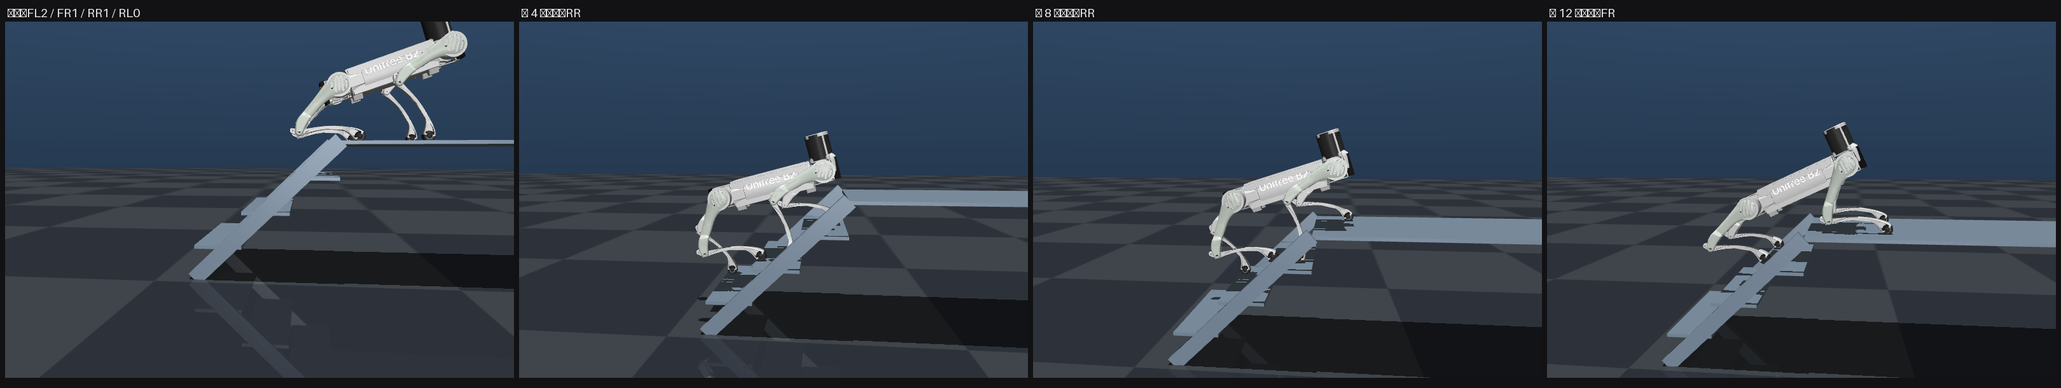
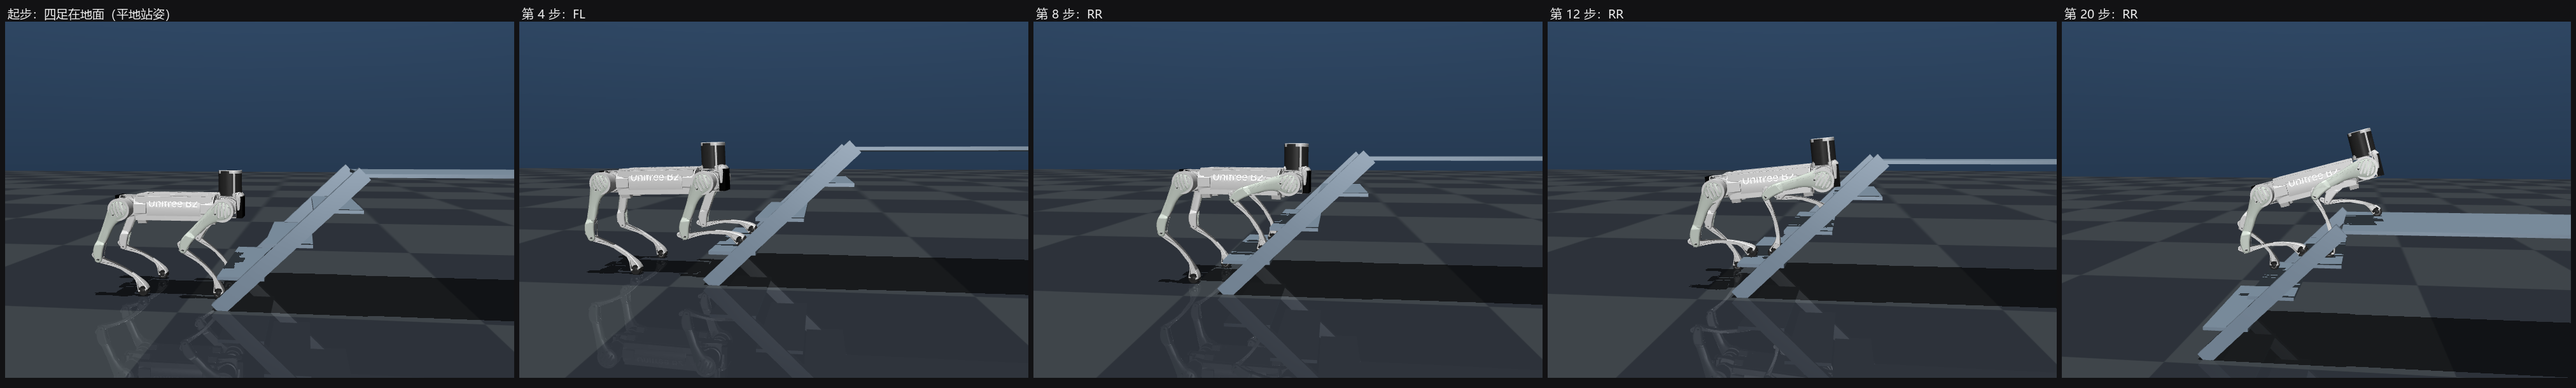
chore: 归档清理 v1.0 基线
- 清空 6 个 __pycache__ 目录与 .tmp（38 个文件 / 0.83 MB）；models/ 一个没动（72 文件 / 88.6 MB）
- b2_follow_gait.png 四联图改为按**实际跑的两段式轨迹**重拍（原先拍的是名义计划/旧版），
  起步帧标题改成「四足在地面（平地站姿）」
- render() 用 run_segs（实际跑的段），不再用名义计划 segs
- .gitignore 修掉一行 GBK 乱码注释；补 *-pages/；注明两个规划缓存是故意纳入版本管理的

diff --git a/experiments/b2/b2_follow_gait.py b/experiments/b2/b2_follow_gait.py
@@ -862,7 +862,7 @@ def main() -> int:
     print(text)
     print("WROTE", OUT_TXT)
     if "--png" in argv:
-        render(rig, fg, segs, steps, res, servo)
+        render(rig, fg, run_segs, steps, res, servo)   # 实际跑的那套段（两段式），不是名义计划
     return 0
 
 
@@ -895,7 +895,9 @@ def render(rig: G.Rig, fg, segs, steps, res, servo: float = 1.2, picks=None) -> 
     # 起步那一帧要先把机器人摆到起步姿态（否则拍到的是 MJCF 默认位，不是这条轨迹的起点）
     j0, _ = G.legs_ik(rig, segs[0].body_a, segs[0].feet_a)
     G.set_pose(rig, data, segs[0].body_a, j0)
-    snap("起步：FL2 / FR1 / RR1 / RL0", (0.42, G.BODY_Y, 0.60))
+    flat = max(v[2] for v in segs[0].feet_a.values()) < rig.r + PRELOAD + 0.05
+    snap("起步：四足在地面（平地站姿）" if flat else "起步：FL2 / FR1 / RR1 / RL0",
+         (0.42, G.BODY_Y, 0.60))
 
     def hook(seg, u):
         if seg.name.startswith("落定") and u > 0.97:
